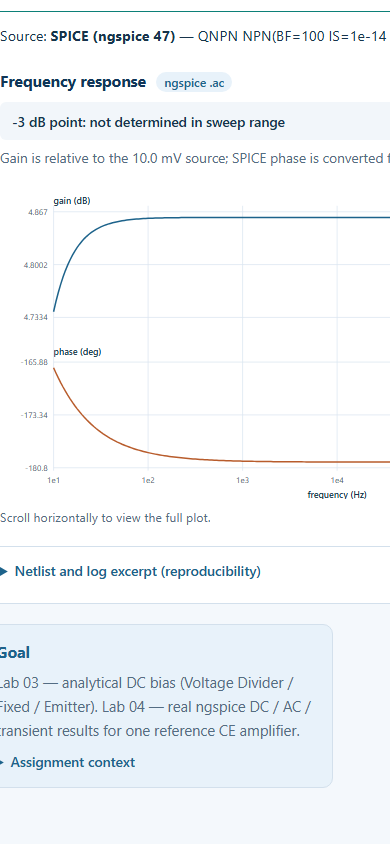
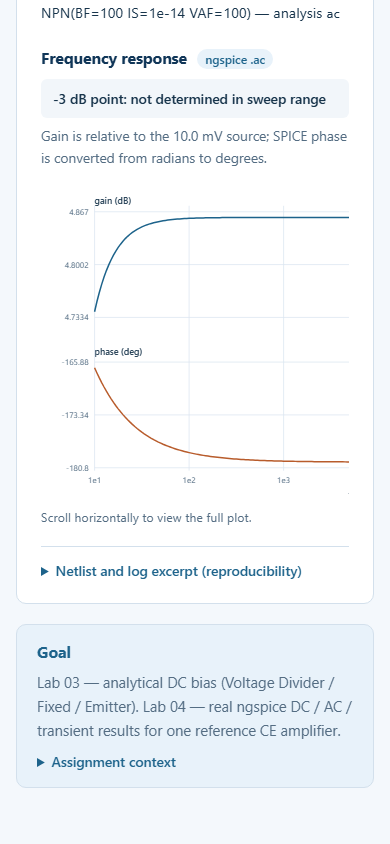
fix: prevent mobile result overflow

diff --git a/static/style.css b/static/style.css
@@ -708,7 +708,11 @@ tbody tr:last-child td {
 
 @media (max-width: 900px) {
   .sim-grid {
-    grid-template-columns: 1fr;
+    grid-template-columns: minmax(0, 1fr);
+  }
+
+  .sim-grid > * {
+    min-width: 0;
   }
 }
 

diff --git a/tests/test_task4_ui.py b/tests/test_task4_ui.py
@@ -114,6 +114,17 @@ class Task4SourceTests(unittest.TestCase):
         status_rule = css[css.index(".sim-status {"):css.index(".sim-status[data-state=")]
         self.assertNotIn("border-left", status_rule)
 
+    def test_mobile_sim_grid_contains_the_min_width_plot_svg(self):
+        css = (ROOT / "static" / "style.css").read_text(encoding="utf-8")
+        start = css.index("@media (max-width: 900px)")
+        media = css[start:css.index("\n}", start)]
+
+        # A 1fr track's automatic minimum is the 640px SVG's min-content width,
+        # which expands both grid children past a 390px phone viewport.
+        self.assertIn("grid-template-columns: minmax(0, 1fr)", media)
+        self.assertIn(".sim-grid > *", media)
+        self.assertIn("min-width: 0", media)
+
 
 if __name__ == "__main__":
     unittest.main()

diff --git a/docs/validation.md b/docs/validation.md
@@ -249,7 +249,19 @@ result was inferred from a screenshot alone.
 | B5 · Transient | Browser `.tran` run; read time/voltage labels and SVG polylines; direct engine run for the same params; sign/correlation analysis of parsed rows | Reference circuit, 10 mV peak, 1 kHz; `.tran 0.01m 5m` | Vin and Vout versus time (ms, V); phase inversion; values from real ngspice run | One SVG with labels `time (ms)`, `Vin [V]`, `Vout [V]`, ticks 0/2.5/5 ms; **508** points per trace; DOM note `Peak Vin 10.00 mV, peak Vout 17.51 mV`. Parse: peak Vin **0.009998 V** at t **4.2528 ms**, Vout there **−0.017479 V**; Vin/Vout correlation over the last 1 ms = **−1.000** (inversion). Max deviation vs fresh engine rows: **≤0.00476 px in x**, **≤0.005 px in y** | `docs/captures/acceptance/B5-transient-desktop-1280x900.png`; selected parsed rows and comparison below | PASS |
 | B6 · Change source | Browser transient run at 10 mV, then only `sim_amplitude` set to 20 mV and a second real run; compare DOM notes and polylines with two engine runs | Amplitude 10 → 20 mV peak; frequency fixed at 1 kHz | Waveform/peak must follow the source setting, not a hard-coded plot | DOM peaks **10.00 mV → 20.00 mV** Vin (**×2.000**) and **17.51 mV → 35.04 mV** Vout; engine peaks **0.009998 V → 0.019997 V** Vin and **0.017511 V → 0.035042 V** Vout. 20 mV SVG: **508** points per trace, max deviation **≤0.00476 px x / 0.005 px y** | `docs/captures/acceptance/B6-transient-10mV-before.png`, `B6-transient-20mV-after.png`; comparison below | PASS |
 | B7 · Invalid / engine fail | (a) Set RE=0 in the real form and click Run; (b) second Flask on port 5001 with in-process `find_ngspice` monkeypatched to `None`, then a real browser run there | (a) RE = 0 kΩ, min constraint 0.000001; (b) reference DC run with engine discovery forced to fail | (a) native validation error and no new simulation; (b) explicit SPICE error, no result table, no `run: success` | (a) `validationMessage` exactly `Value must be greater than or equal to 0.000001.`, `checkValidity() = false`, **0** POSTs, result state stayed `idle`; (b) exact error text `การจำลอง SPICE ล้มเหลว: ngspice executable not found. Install ngspice 47 and add it to PATH.`; status `ngspice 47 · run: failed`, `data-sim-state=error`, **0** SPICE table rows, no `run: success`, real `POST /simulate` returned HTTP 200 | `docs/captures/acceptance/B7-re0-native-validation.png`, `B7-engine-unavailable-5001.png`; method and network log below | PASS |
-| B8 · UI | Desktop 1280×900 and phone 390×844 emulation; mode switching then AC run and DOM overflow measurement at both sizes | Same reference inputs, analysis `ac`, mode switches Fixed → Divider | Graphs, units and buttons readable; no important content clipped | **Desktop:** buttons and units readable, plot visible, `documentElement.scrollWidth 1280 px = viewport 1280 px` → PASS. **Phone (with result):** `screen.width 390 px`, but after the AC result `innerWidth = scrollWidth = 706 px`; the 640 px min-width SVG forces the single-column grid/card to 690 px, so the right side of the results card is clipped at 390 px. Phone root page before simulation was 390 px wide and not clipped | `docs/captures/acceptance/B8-desktop-1280x900.png`, `B8-mobile-390x844-root.png`, `B8-mobile-390x844.png`, `B8-mobile-390x844-full.png` (706 px wide full-page capture) | **FAIL** (mobile clipping with results; desktop PASS) |
+| B8 · UI | Desktop 1280×900 and phone 390×844 emulation; mode switching then AC run and DOM overflow measurement at both sizes | Same reference inputs, analysis `ac`, mode switches Fixed → Divider | Graphs, units and buttons readable; no important content clipped | **Desktop:** buttons and units readable, plot visible; `innerWidth 1280 px`, `documentElement.scrollWidth 1280 px`, grid 1248 px, results 868 px, form 360 px, `.plot-scroll` clientWidth 818 px = SVG 818 px → PASS. **Phone (with result):** `innerWidth 390 px`, `documentElement.scrollWidth 390 px`, `bodyScrollWidth 390 px`; grid, results and form all 358 px; `.plot-scroll` clientWidth 308 px with internal `scrollWidth 640 px` (max scrollLeft 332 px); 640 px Bode SVG and both 241-point traces remain visible inside the scroller after `scrollLeft = 200 px`, and no element outside `.plot-scroll` extends past 390 px. Root page 390 px, not clipped | `docs/captures/acceptance/B8-desktop-1280x900.png`, `B8-mobile-390x844-root.png`, `B8-mobile-390x844.png`, `B8-mobile-390x844-full.png` (390 px wide), `B8-mobile-390x844-plot-scrolled.png` | **PASS** (desktop and phone; internal plot scroll is intended) |
+
+#### B8 re-check after the fix
+
+The first acceptance pass recorded B8 as FAIL: with an AC result at 390 px the
+640 px `min-width` plot made the `1fr` grid track's automatic minimum 640 px,
+expanding both cards to 690 px and the page to 706 px. The CSS was fixed inside
+the existing `@media (max-width: 900px)` block (`grid-template-columns:
+minmax(0, 1fr)` and `min-width: 0` on `.sim-grid > *`) with a regression test in
+`tests/test_task4_ui.py`. B8 was then re-run end-to-end in the same real headless
+Chrome/CDP setup (390×844, phone emulation, mode switches, reference AC run):
+the measurements above replaced the failing ones and all B8 phone screenshots
+were recaptured. No plot data or application code changed.
 
 #### Provenance proof for the plotted data (B4, B5, B6)
 
@@ -328,11 +340,12 @@ path rather than an unobserved server error.
 - The transient plot is AC-coupled at the collector through COUT/RL; Vout is
   centred near 0 V and inverted relative to Vin. The phase-inversion statement
   is based on parsed row signs and a −1.000 correlation, not only on the image.
-- **Known UI defect (B8 FAIL):** with simulation results present at 390 px,
-  the 640 px minimum-width plot SVG makes the single-column grid child 690 px
-  wide (`documentElement.scrollWidth = 706 px`), clipping the right side of the
-  results card. Per Task 5 scope no application/CSS code was changed; this is
-  reported as FAIL rather than silently fixed.
+- **B8 mobile clipping resolved:** the earlier 706 px page width came from the
+  `1fr` track's automatic minimum under the 640 px plot SVG. The mobile media
+  query now uses `minmax(0, 1fr)` and `min-width: 0` on `.sim-grid > *`, so at
+  390 px the page and cards are 390/358 px wide; the Bode plot scrolls *inside*
+  its 308 px wrapper (640 px SVG) instead of overflowing the page. Intended
+  internal scrolling remains; no important content is clipped.
 - **NOT RUN:** no B1–B8 case was left unrun. The Task 4 Impeccable overlay
   attempt (recorded above) remains unavailable in this isolated session and is
   not part of the B1–B8 acceptance.
@@ -345,9 +358,11 @@ path rather than an unobserved server error.
 `B6-transient-10mV-before.png`, `B6-transient-20mV-after.png`,
 `B7-re0-native-validation.png`, `B7-engine-unavailable-5001.png`,
 `B8-desktop-1280x900.png`, `B8-desktop-1280x900-full.png`,
-`B8-mobile-390x844-root.png`, `B8-mobile-390x844.png`, and
-`B8-mobile-390x844-full.png`.
+`B8-mobile-390x844-root.png`, `B8-mobile-390x844.png`,
+`B8-mobile-390x844-full.png` (recaptured at 390 px after the fix), and
+`B8-mobile-390x844-plot-scrolled.png` (Bode trace inside the horizontal
+scroller).
 
-Final full suite after all acceptance work:
+Final full suite after the B8 fix and all acceptance work:
 `cmd /c ".venv\Scripts\python.exe -m unittest discover -s tests"` →
-`Ran 94 tests in 1.354s`, `OK`.
+`Ran 95 tests in 1.319s`, `OK`.
